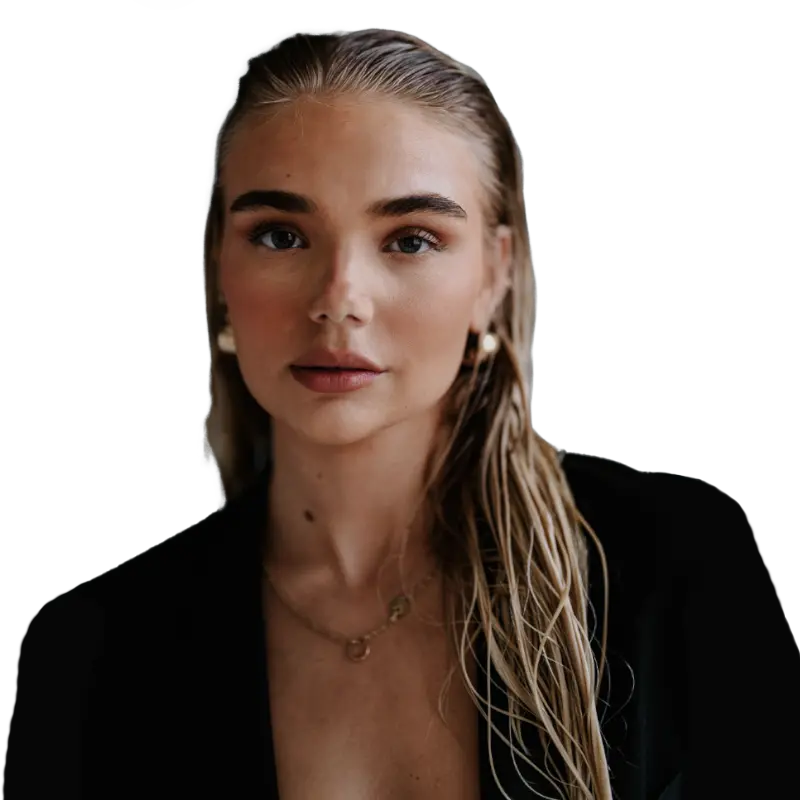
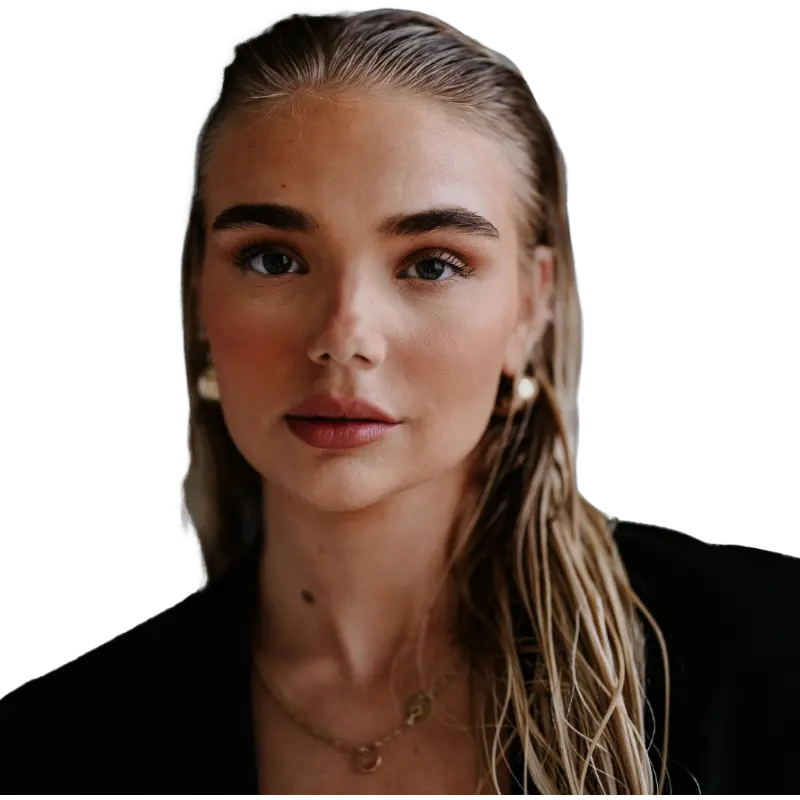
Changed email

diff --git a/src/sections/Contact.jsx b/src/sections/Contact.jsx
@@ -123,10 +123,10 @@ const Contact = () => {
 
                 <Typography
                   component="a"
-                  href="mailto:hello@somesankarit.fi"
+                  href="mailto:mirko@somesankarit.fi"
                   variant="body-text"
                 >
-                  hello@somesankarit.fi
+                  mirko@somesankarit.fi
                 </Typography>
               </Stack>
               {/* Phone */}
